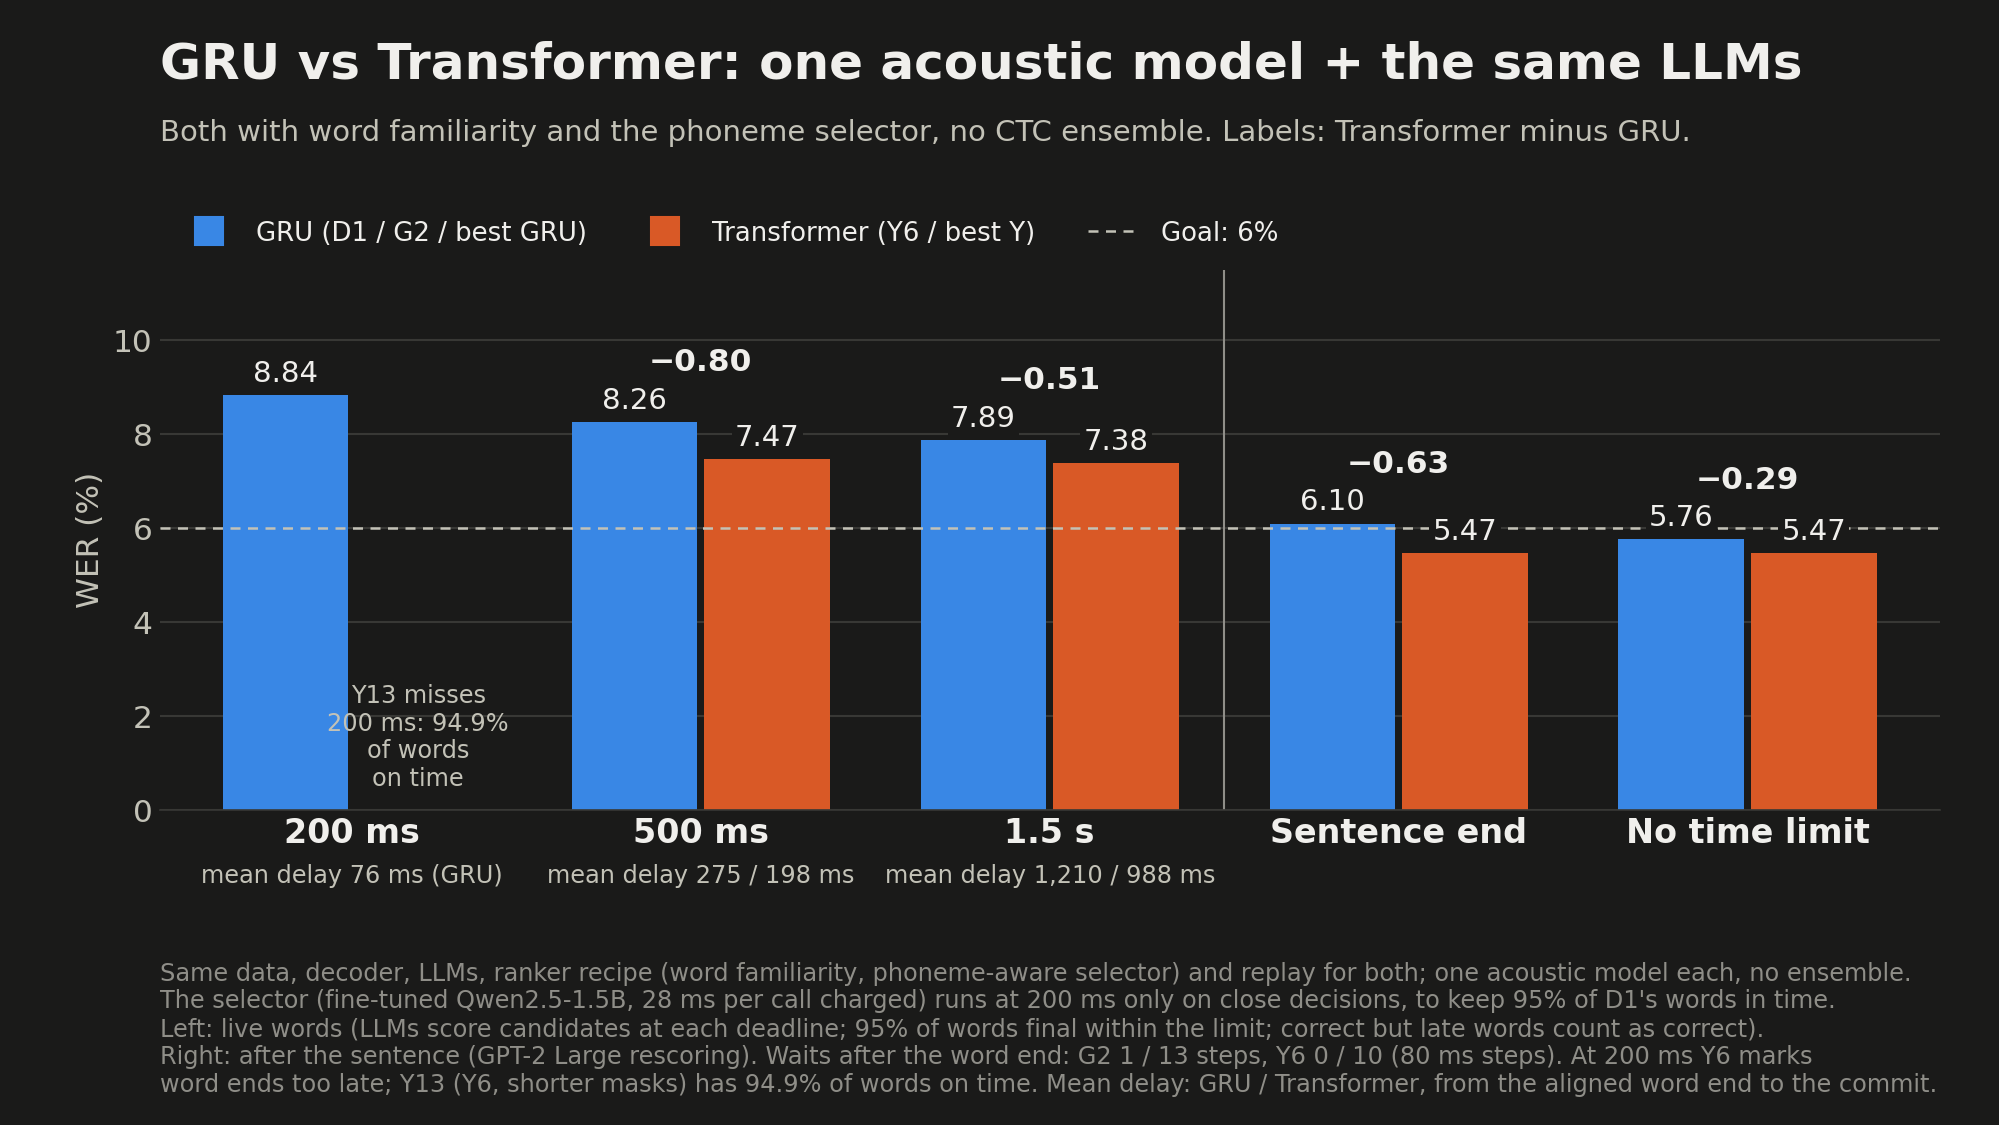
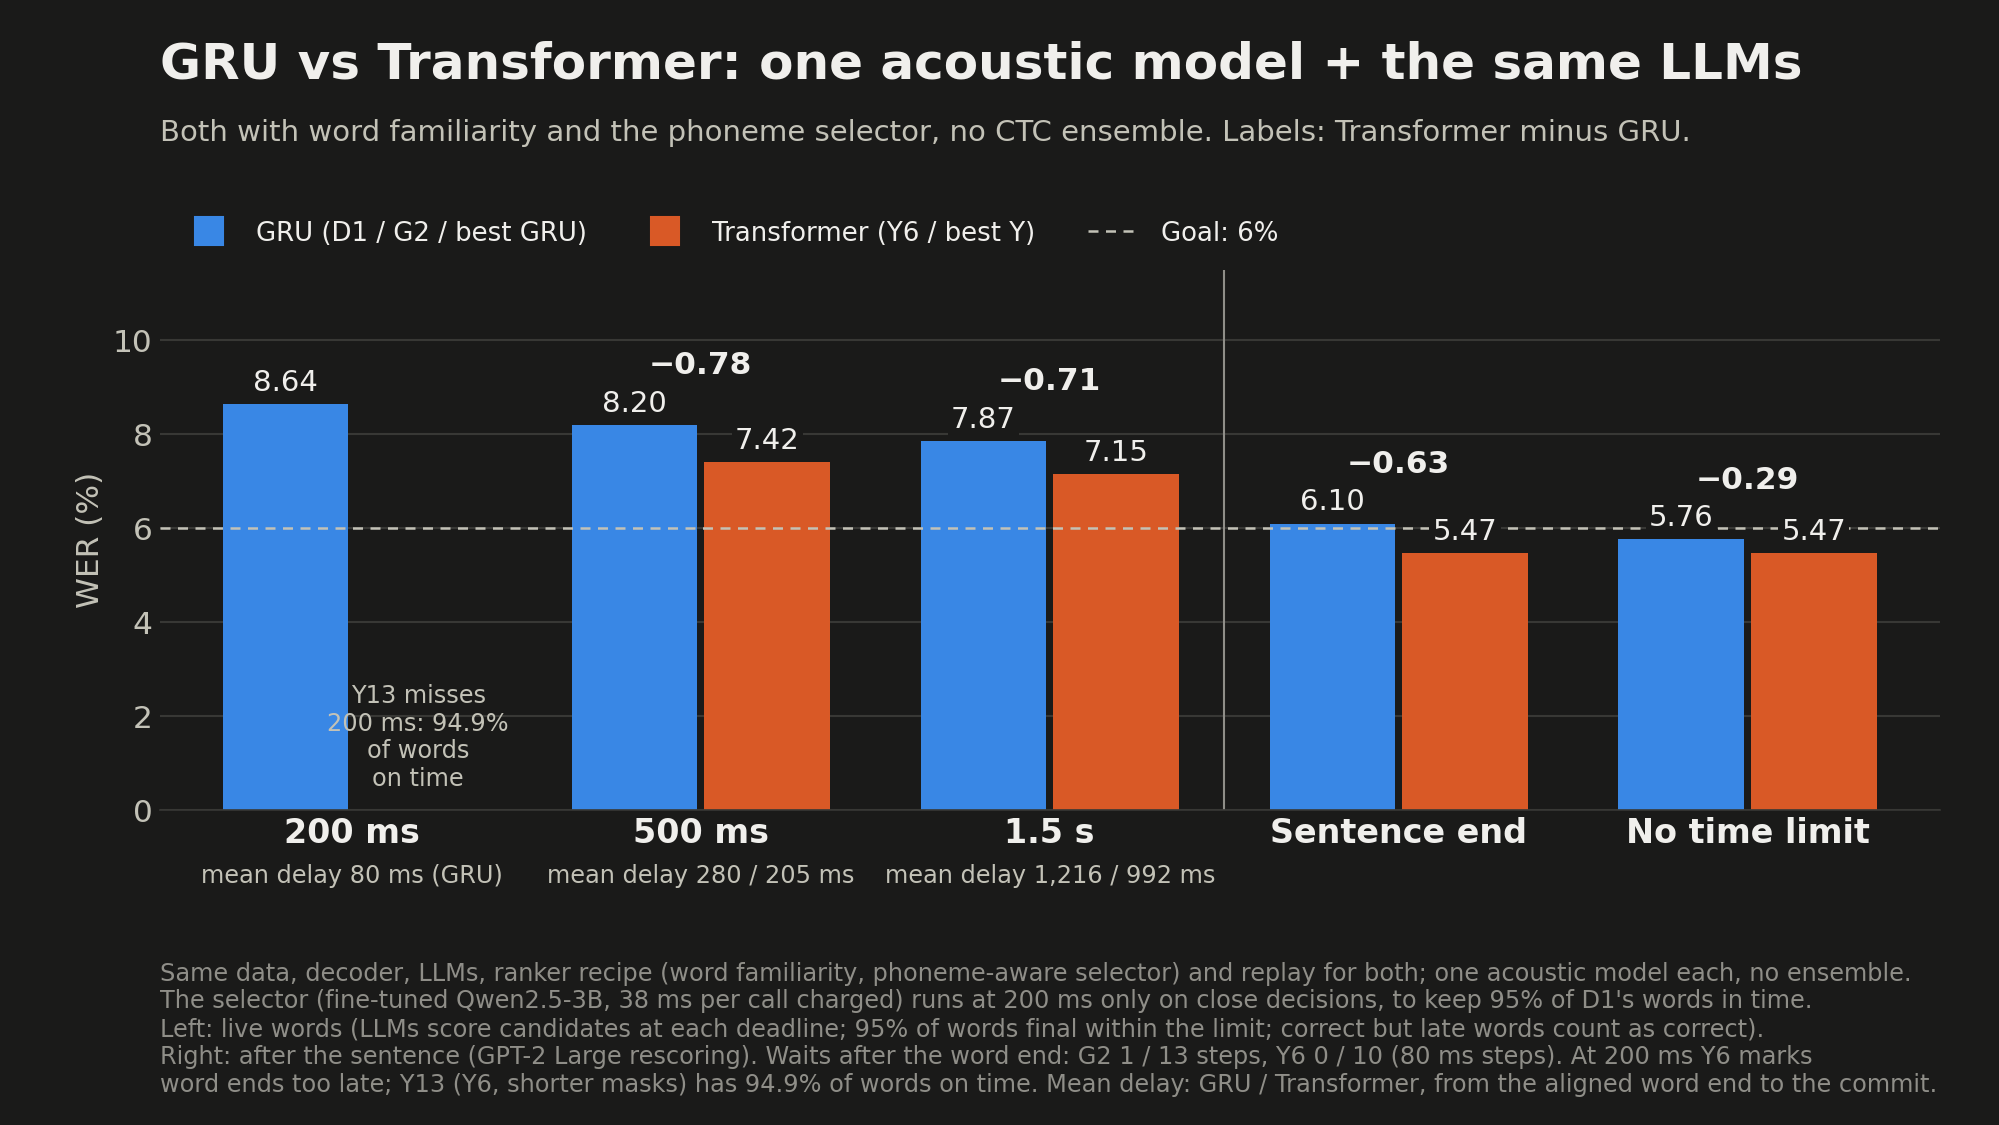
3B selector everywhere: 200 ms full system 8.36 -> 8.12% (close decisions only, 95.2% in time), one-model rows lower on every split

diff --git a/README.md b/README.md
@@ -13,9 +13,9 @@ shown within 200 ms, 500 ms or 1.5 s of the moment the participant finished atte
 
 | Time limit after the word ends | One model | Full system | Mean delay | Deciding model |
 |---|---|---|---|---|
-| 200 ms | 8.84% | 8.36% | 76 ms | GRU D1 (causal) |
-| 500 ms | 7.47% | 6.44% | 204 ms | Transformer Y6 |
-| 1.5 s | 7.38% | 6.22% | 993 ms | Transformer Y6 |
+| 200 ms | 8.64% | 8.12% | 78 ms | GRU D1 (causal) |
+| 500 ms | 7.42% | 6.44% | 204 ms | Transformer Y6 |
+| 1.5 s | 7.15% | 6.22% | 993 ms | Transformer Y6 |
 | After the sentence (not the target) | 5.06% | 4.28% | - | Transformer Y6, its 100 best sentences rescored |
 
 A live result passes its time limit when 95% of words are final within it; a correct word that arrives late still
@@ -23,16 +23,16 @@ counts as correct, and the mean delay shows the typical wait. The deciding acous
 propose candidates for the next word, and at each word's deadline a learned ranker picks one. "One model" gives the
 ranker the deciding model's own scores, two language models (fine-tuned GPT-2 Large and OPT-2.7B) and how often each
 candidate word occurs in the training sentences (the language models and the decoder under-rate rare words, which
-hold two thirds of the errors), and a phoneme-aware selector: Qwen2.5-1.5B fine-tuned (LoRA) to pick the word from
+hold two thirds of the errors), and a phoneme-aware selector: Qwen2.5-3B fine-tuned (LoRA) to pick the word from
 the phonemes the acoustic model heard and the candidates' pronunciations. It was trained on the held-out decisions of
 five Y6 models, each trained without one fifth of the training sentences, so it learned from realistic mistakes; with
-its 28 ms per word charged it lowers live WER by 0.36-0.48 at 500 ms and 0.22-0.36 at 1.5 s. At 200 ms it runs only
-on close decisions (29% of them, where the two best candidates score within a margin), which keeps 96% of words in
-time and lowers WER by 0.28-0.42. The "full system" adds the CTC scores of an
-ensemble of acoustic models (11 causal GRUs at 200 ms and 500 ms, and at 1.5 s 22 GRUs, 3 Transformers and Y6 with
-three extra CTC inputs) and, at 500 ms and 1.5 s, a larger selector, Qwen2.5-3B (38 ms per word): 7.06% -> 6.44% and
-6.51% -> 6.22%, lower than the 1.5B on every session split. The full system runs only with the best model that meets
-each limit; the one-model column uses the 1.5B selector, as the GRU comparison below does. After the sentence, a learned rescorer combines GPT-2 Large with the
+its 38 ms per word charged it lowers Y6's live WER by 0.45-0.58 at 500 ms and 0.59-0.68 at 1.5 s over the four session
+splits (Qwen2.5-1.5B: 0.36-0.48 and 0.22-0.36). At 200 ms it runs only on close decisions (29% of them, where the two
+best candidates score within a margin), which keeps 95.2% of D1's words in time and lowers WER by 0.49-0.63. The
+"full system" adds the CTC scores of an ensemble of acoustic models (11 causal GRUs at 200 ms and 500 ms, and at 1.5 s
+22 GRUs, 3 Transformers and Y6 with three extra CTC inputs); there the selector takes 7.06% to 6.44% at 500 ms and
+6.51% to 6.22% at 1.5 s. The full system runs only with the best model that meets each limit. After the sentence, a
+learned rescorer combines GPT-2 Large with the
 same inputs over Y6's 100 best sentences (GPT-2 Large alone: 5.47%). The exact sentence is in that list for 89% of
 sentences, and always picking the closest one would give 2.24%, so better choosing has room left.
 
@@ -69,7 +69,7 @@ A second track on the Makin lab's ECoG dataset is intended; access and integrati
 
 <picture>
   <source media="(prefers-color-scheme: dark)" srcset="docs/images/dark/03_gru_vs_transformer.png">
-  <img src="docs/images/light/03_gru_vs_transformer.png" alt="Bar chart of one GRU against one Transformer, each with the same language models, word familiarity and phoneme-aware selector: 500 ms 8.26% vs 7.47%, 1.5 s 7.89% vs 7.38%, sentence end 6.10% vs 5.47%, no time limit 5.76% vs 5.47%; at 200 ms only the GRU, 8.84% (selector on close decisions only).">
+  <img src="docs/images/light/03_gru_vs_transformer.png" alt="Bar chart of one GRU against one Transformer, each with the same language models, word familiarity and phoneme-aware selector: 500 ms 8.20% vs 7.42%, 1.5 s 7.87% vs 7.15%, sentence end 6.10% vs 5.47%, no time limit 5.76% vs 5.47%; at 200 ms only the GRU, 8.64% (selector on close decisions only).">
 </picture>
 
 ## What this repository adds

diff --git a/docs/PLAN.md b/docs/PLAN.md
@@ -1,8 +1,8 @@
 # Streaming neural decoding plan — updated 2026-11-19
 
-**Where things stand (2026-11-19 afternoon):** live-word WER is 8.36 / 6.44 / 6.22% at 200 ms / 500 ms / 1.5 s on val-dev
-with one decoder (mean delay 76 / 204 / 993 ms), all three with the fine-tuned phoneme-aware selector (step 1; Qwen2.5-3B
-at 500 ms and 1.5 s, the 1.5B on close decisions at 200 ms; 8.64 / 7.06 / 6.51 without it), against a target of below 6% (`current_knowledge.md` section 0, which also holds every result and
+**Where things stand (2026-11-19 evening):** live-word WER is 8.12 / 6.44 / 6.22% at 200 ms / 500 ms / 1.5 s on val-dev
+with one decoder (mean delay 78 / 204 / 993 ms), all three with the fine-tuned Qwen2.5-3B phoneme-aware selector (step
+1; at 200 ms on close decisions only; 8.64 / 7.06 / 6.51 without it), against a target of below 6% (`current_knowledge.md` section 0, which also holds every result and
 the ledger of what was tried). A second decoder's votes (without the selector) gave 6.77 / 6.48. The 500 ms and 1.5 s results come from the Y6_1
 average deciding the words, with word-familiarity features in the ranker. After the sentence, a learned rescorer with
 the CTC ensemble and familiarity reaches 4.28% (GPT-2 Large alone 5.47%; best sentence in the list 2.24%). Y13 reaches
